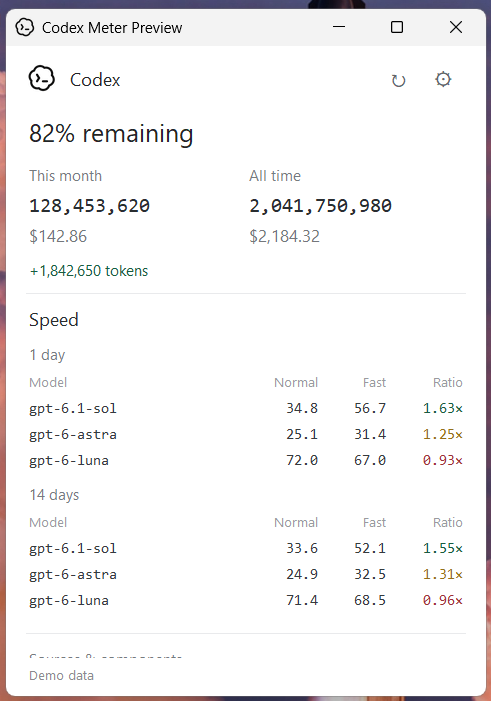
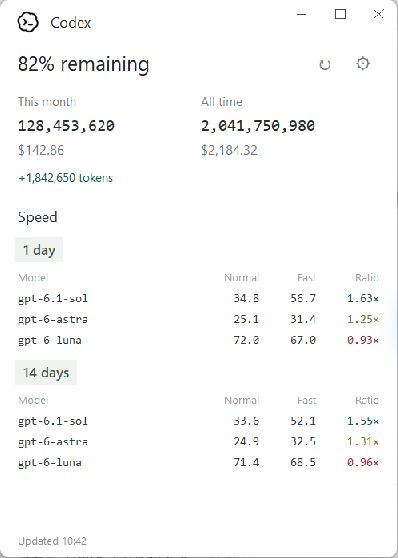
docs: update English README preview and hide completed refresh duration

diff --git a/meter.py b/meter.py
@@ -19,7 +19,7 @@ VENDOR = SPEED.parent / 'vendor'
 UPSTREAM = 'https://gist.githubusercontent.com/pszemraj/f8fe69ff5002c3bd0825edfd02001635/raw/codex_speed.py'
 CREATE = 0x08000000 if os.name == 'nt' else 0
 PYTHON = str(Path(sys.executable).with_name('python.exe')) if Path(sys.executable).name.lower() == 'pythonw.exe' else sys.executable
-VERSION = '1.0.4'
+VERSION = '1.0.5'
 DEFAULT = {'interval': 6, 'reserve': 600000000}
 CACHED_SPEED = DATA / 'tools' / 'codex_speed.py'
 
@@ -297,6 +297,8 @@ class App:
         load_gui()
         self.dirty=False
         self.settings={**DEFAULT, **read(CONFIG,{})}; self.data=read(SNAPSHOT,{}); self.busy=False; self.closed=False; self.job=None; self.results=queue.Queue()
+        if self.data.get('status','').startswith('Updated '):
+            self.data['status']=re.sub(r'\s*·\s*\d+(?:\.\d+)?s(?=\s*·|$)','',self.data['status'])
         self.root=tk.Tk(); self.root.title('Codex Meter'); self.root.geometry('480x650'); self.root.minsize(440,610); self.root.configure(bg='#ffffff')
         self.root.iconbitmap(str(ROOT/'assets/codex-transparent.ico'))
         self.root.after_idle(self.configure_window)
@@ -613,8 +615,7 @@ class App:
         self.root.after(1000 if self.root.state()=='withdrawn' else 500,self.check_results)
     def finish(self):
         if self.closed: return
-        seconds=time.monotonic()-self.refresh_started
-        updated='Updated '+datetime.now().strftime('%H:%M')+f' · {seconds:.1f}s'
+        updated='Updated '+datetime.now().strftime('%H:%M')
         details=self.refresh_errors+self.refresh_notes
         self.data['status']=(updated+(' · tool fallback' if self.refresh_notes else '')) if not self.refresh_errors else 'Partial refresh · '+', '.join(error.split(':')[0] for error in self.refresh_errors)+' failed'
         self.data['details']='\n'.join(details)

diff --git a/test_meter.py b/test_meter.py
@@ -162,7 +162,7 @@ class RefreshTests(unittest.TestCase):
                 self.assertIn('Partial refresh',app.status.cget('text'))
             else:
                 self.assertEqual(app.data['delta'],25)
-                self.assertTrue(app.status.cget('text').startswith('Updated'))
+                self.assertRegex(app.status.cget('text'),r'^Updated \d{2}:\d{2}$')
         app.closed=True
         if app.job: app.root.after_cancel(app.job)
         app.root.destroy()

diff --git a/scripts/preview.py b/scripts/preview.py
@@ -28,7 +28,7 @@ app.data = {
         '14': rows([('gpt-6.1-sol', '33.6', '52.1', '1.55×'),
                     ('gpt-6-astra', '24.9', '32.5', '1.31×'),
                     ('gpt-6-luna', '71.4', '68.5', '0.96×')])},
-    'status': 'Demo data',
+    'status': 'Updated 10:42',
 }
 app.root.title('Codex Meter Preview')
 app.root.geometry('+480+100')

diff --git a/README.md b/README.md
@@ -6,13 +6,12 @@ A small Windows desktop meter for Codex usage and speed. Close it to the notific
 
 *App screenshot with synthetic demo data. The latest layout removes the title bar, uses rounded corners, and places Refresh / Settings beside the remaining allowance. Source credits are in Settings.*
 
-## Quick install / 快速安装
+## Quick install
 
 1. Download **[Codex-Meter-Windows-x64.zip](https://github.com/HenryTeo27/ai-agent-usage-speed-app/releases/latest/download/Codex-Meter-Windows-x64.zip)** from [Releases](https://github.com/HenryTeo27/ai-agent-usage-speed-app/releases/latest).
 2. Extract the ZIP, then double-click **Install.cmd**. No administrator access or Python installation is needed.
 3. Open **Codex Meter** on your desktop. The installer also adds it to the Start menu.
 
-下载 ZIP → 解压 → 双击 `Install.cmd` → 从桌面打开 **Codex Meter**。
 
 **Requires Windows 10/11 x64, Node.js 22+ with npm, and Codex installed and signed in.** Restart the app after installing Node.js so it can find `npx`. Codex Desktop's bundled CLI is detected when it is not on PATH. This app uses your local Codex logs; it cannot recover activity from other computers or deleted logs.
 
@@ -65,7 +64,7 @@ Each refresh asks npm for the latest ccusage and downloads the latest upstream c
 
 The app retains settings, one latest snapshot, and one working speed-tool script. It does not keep a scan history or copy chat content. Speed CSVs and parse caches are temporary and deleted after scans. Existing Codex logs are read in place. npm maintains its normal package cache. No telemetry or chat upload is implemented. npm, the speed download and ccusage pricing resolution may access the network; the Codex account query uses Codex's existing sign-in.
 
-The app sleeps between scans. Usage, limits and speed run concurrently outside the UI thread, and each source appears as soon as it completes. The speed worker parses recent logs once for both windows; orjson accelerates JSON decoding while codex-speed still computes the statistics. No persistent sample cache is written. Each scan still reads local logs and briefly uses CPU, disk and memory; large log collections can take longer. The status shows pending sources and elapsed time. Completed refreshes show an update time and duration. Hover over the status for any source errors or tool-update fallback details. Commands have timeouts. Failed sources retain their previous values and show a status message. This release is unsigned; Windows may identify the download as an unrecognized app.
+The app sleeps between scans. Usage, limits and speed run concurrently outside the UI thread, and each source appears as soon as it completes. The speed worker parses recent logs once for both windows; orjson accelerates JSON decoding while codex-speed still computes the statistics. No persistent sample cache is written. Each scan still reads local logs and briefly uses CPU, disk and memory; large log collections can take longer. The status shows pending sources and elapsed time. Completed refreshes show only the update time. Elapsed seconds appear only while a refresh is running. Hover over the status for any source errors or tool-update fallback details. Commands have timeouts. Failed sources retain their previous values and show a status message. This release is unsigned; Windows may identify the download as an unrecognized app.
 
 ## Development and build
 
@@ -86,7 +85,6 @@ Contributions for other coding agents are welcome. The current release supports 
 
 Open an issue or pull request with the agent name, a link to its usage or speed tool, and a small anonymized log or JSON sample. Explain what the tokens, cost and timing values mean. Keep scans local, avoid storing history, handle missing fields, and include parser tests. Never include API keys, login files, chat content or personal logs. Provider data collection should stay separate from UI rendering so more agents can be added without duplicating the window.
 
-欢迎使用其他 coding agent 的用户贡献 usage 和 speed 支持。当前只支持 Codex；你可以提交 issue 或 PR，说明使用的 agent、统计工具和数据格式，一起把它扩展成多平台的小型 meter。
 
 ## License and credits
 
